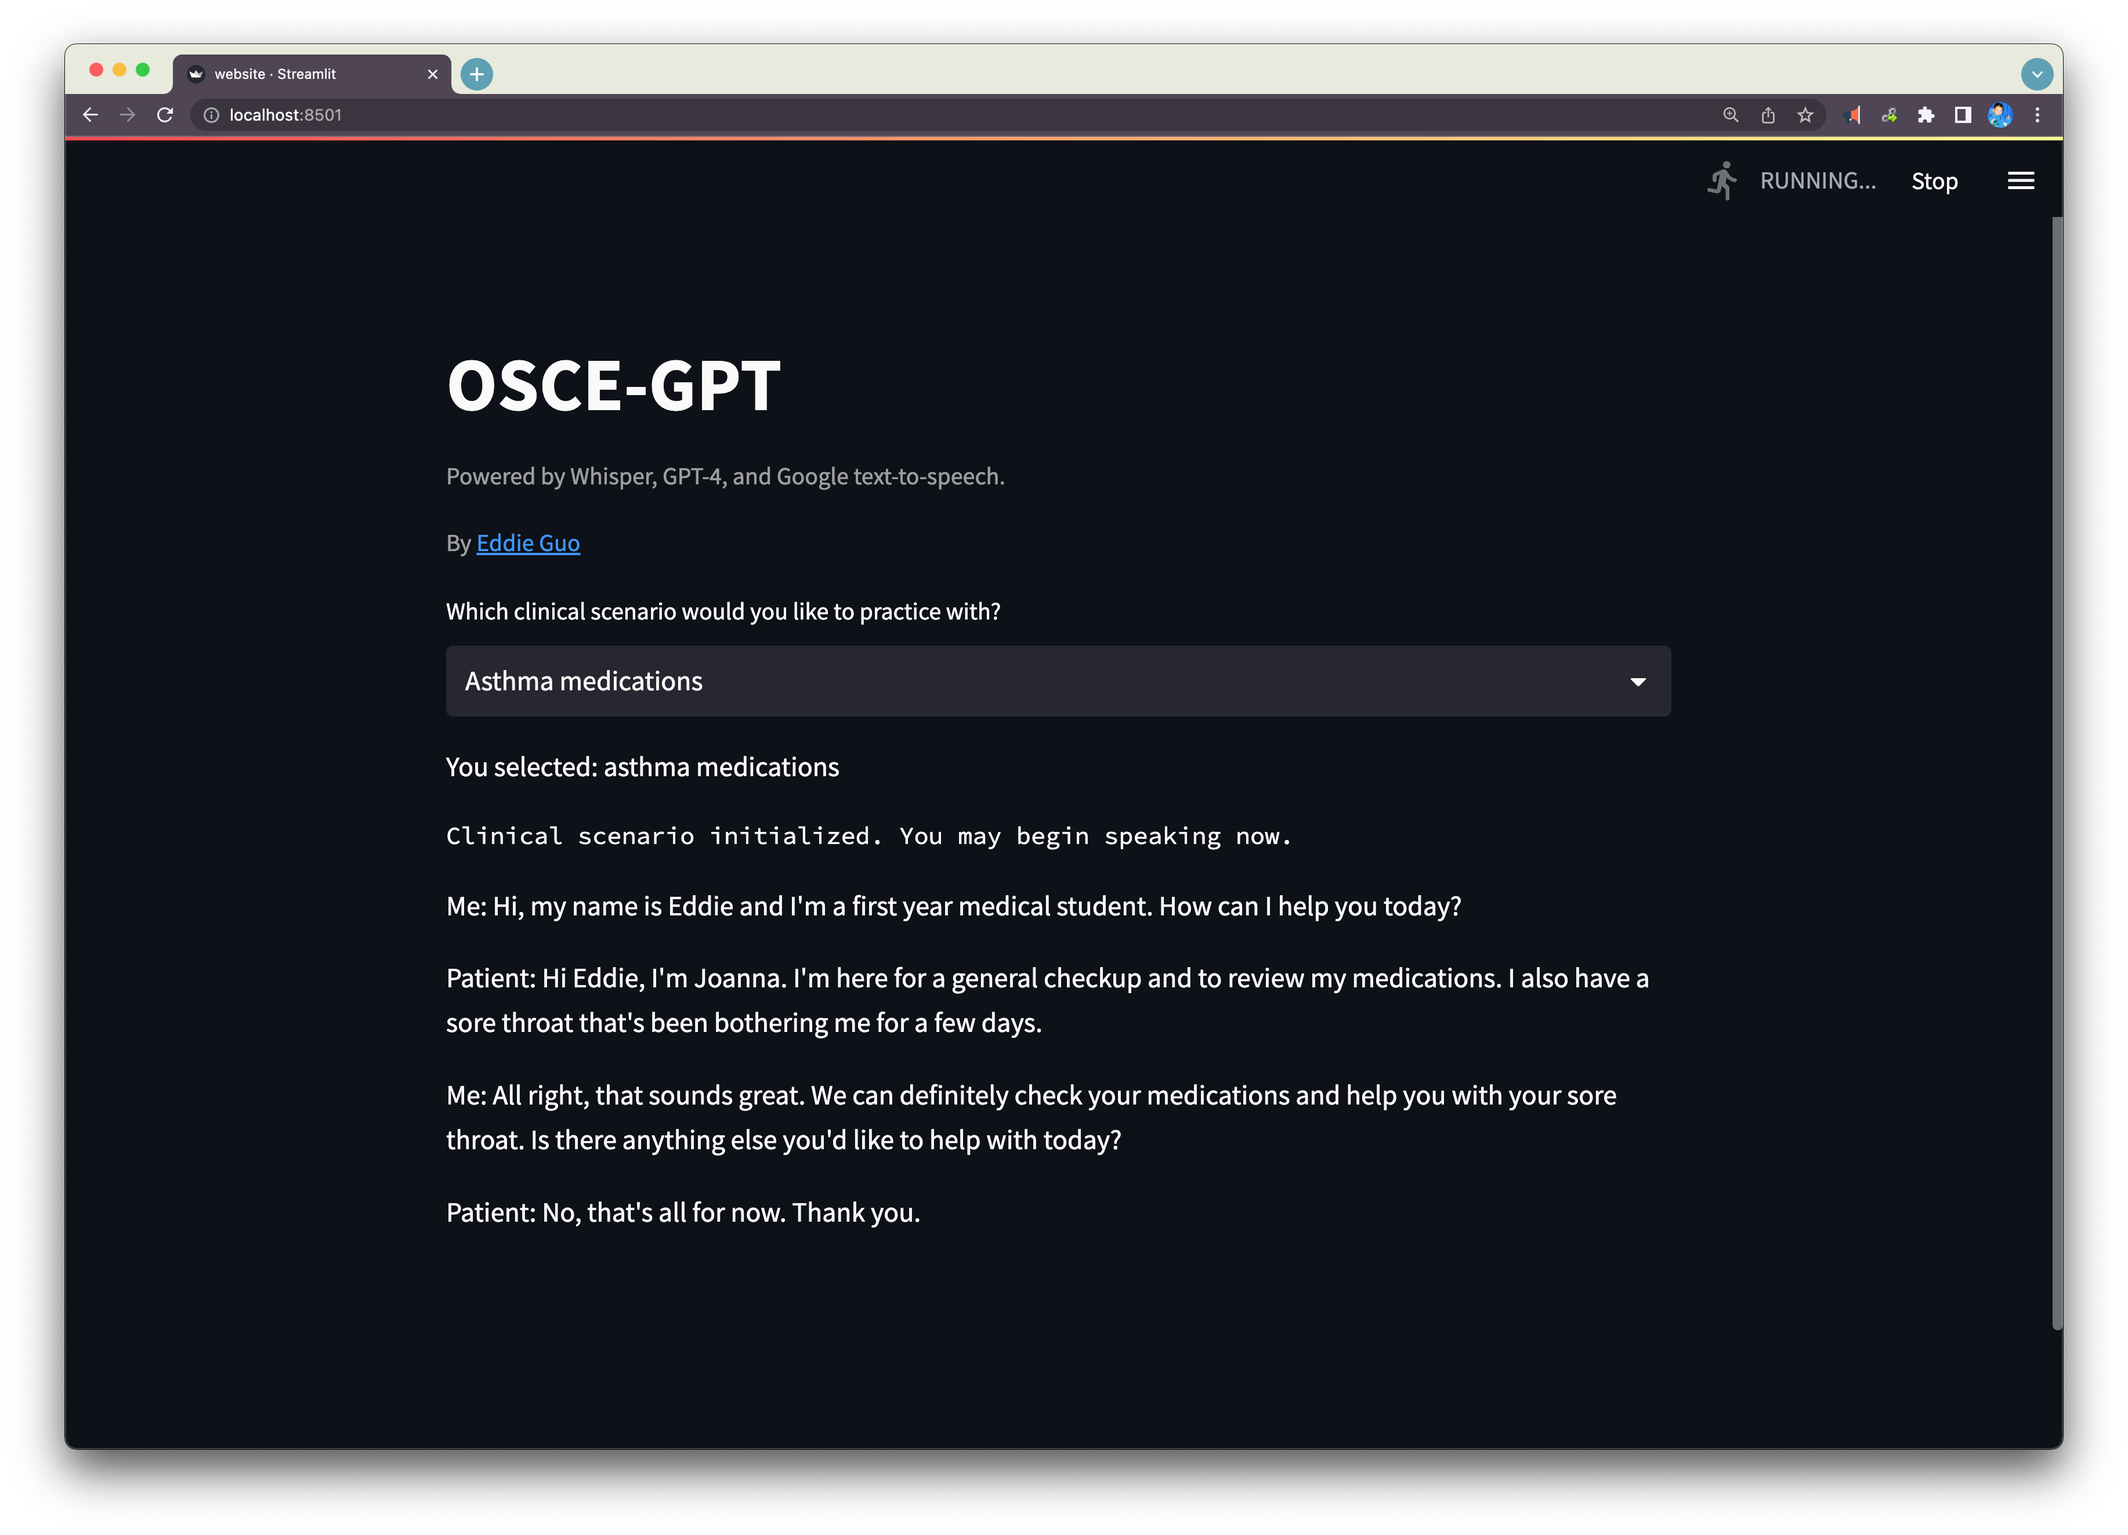
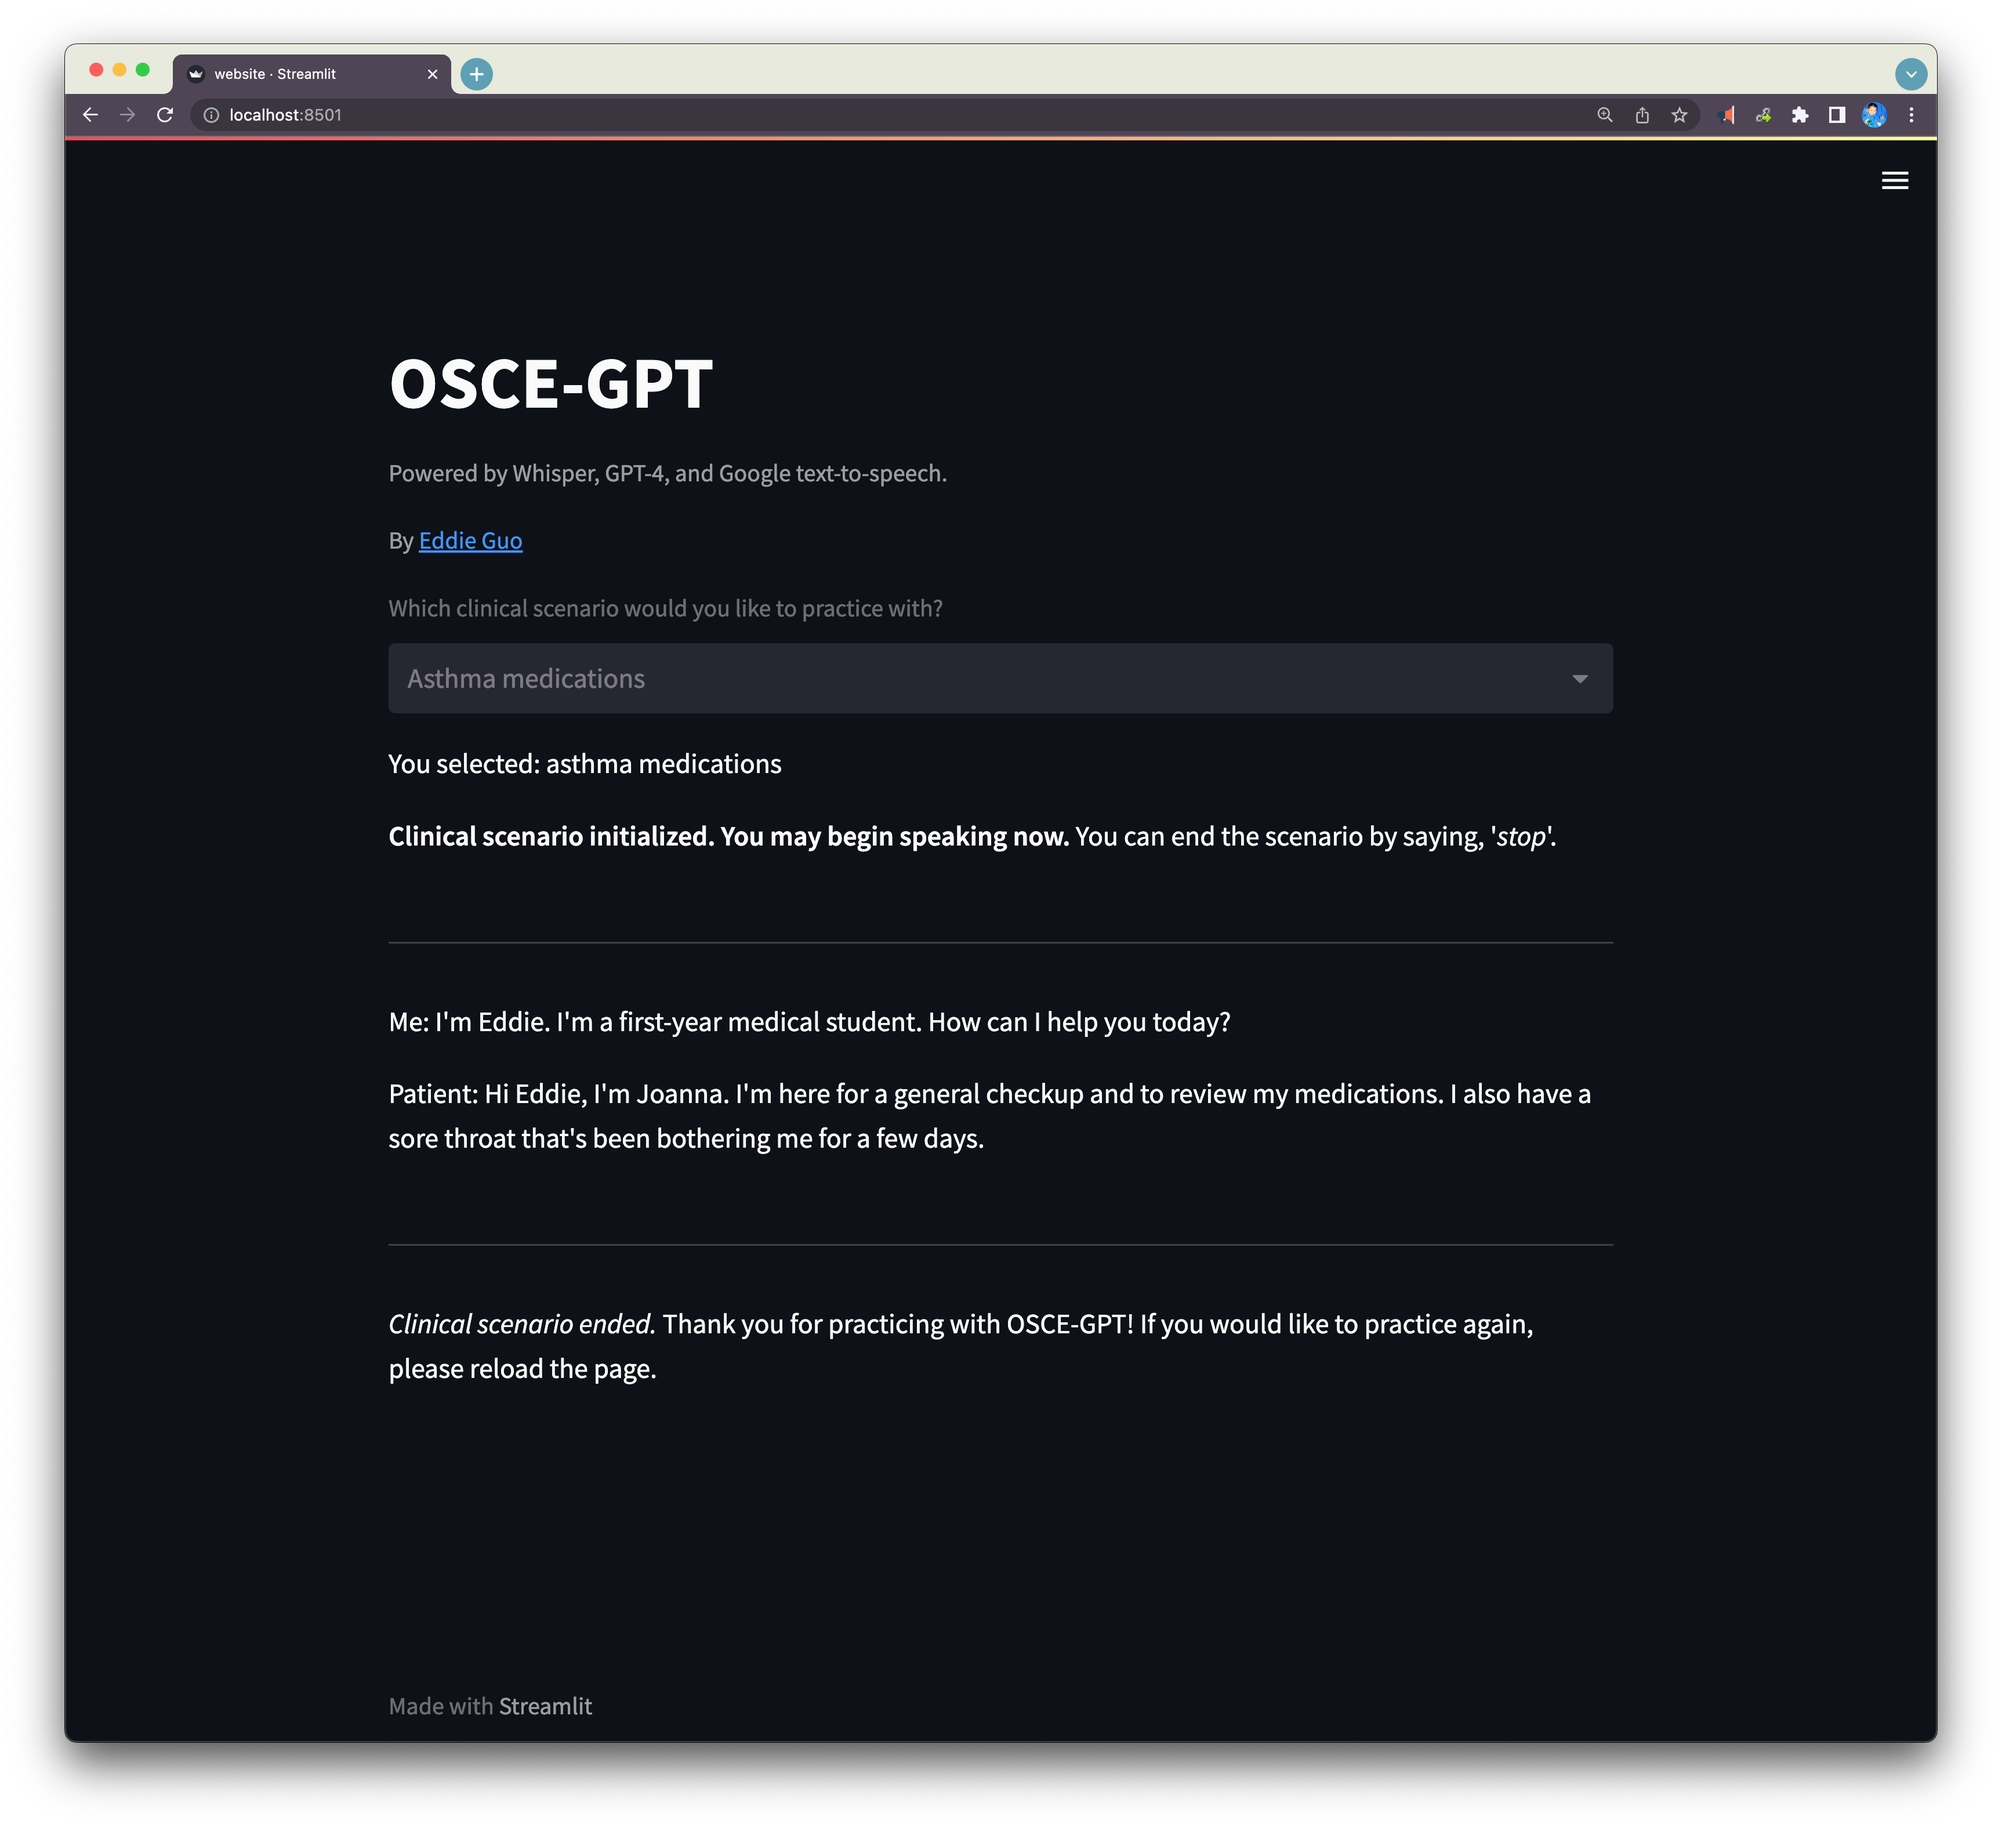
updated website

diff --git a/website.py b/website.py
@@ -59,10 +59,11 @@ class Patient:
             self.tokens -= len(self.tokenizer(popped['content'])['input_ids'])
 
     def main(self):
-        st.write("**Clinical scenario initialized.** You may begin speaking now. You can end the scenario by saying, '*stop*'.")
+        st.write("**Clinical scenario initialized. You may begin speaking now.** You can end the scenario by saying, '*stop*'.")
+        st.markdown("---")
         while True:
             with sr.Microphone() as source:
-                source.pause_threshold = 0.8  # silence in seconds
+                source.pause_threshold = 1  # silence in seconds
                 audio = self.r.listen(source)
             text = self.transcribe(audio)
             if text:
